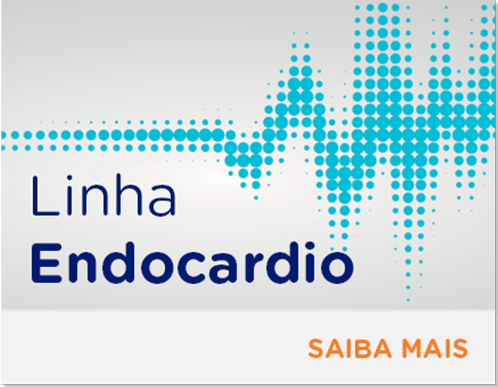
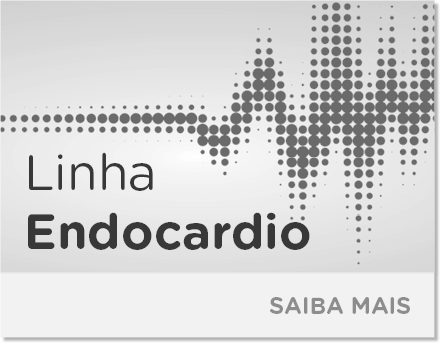
third Commit
Changes:
Config
Commom css
Buttons LNEN LNFE
Delete Folder XDK
Change Splash_screen and @2k

Changed region(s): [[0.0, 0.0, 1.0, 1.0], [0.0591, 0.4373, 0.3545, 0.5831], [0.5909, 0.8455, 0.9455, 0.9329]]

diff --git a/www/css/common.css b/www/css/common.css
@@ -25,13 +25,13 @@
   display: block;
   position: absolute;
   background: url(images/btn_menu_bula.png);
-  left: 910px;
-  top: 10px;
+  left: 880px;
+  top: -15px;
   width: 84px;
   height: 114px;
 }
 .btn_menu_bula:hover {
-   top: 30px;
+  opacity: 0.6;
   }
 
   .t_bula {
@@ -1440,7 +1440,7 @@
   position: absolute;
   background: url(images/p_bula_calcitotal.png);
   left: 60px;
-  top: 100px;
+  top: 38px;
   width: 906px;
   height: 673px;
 }
